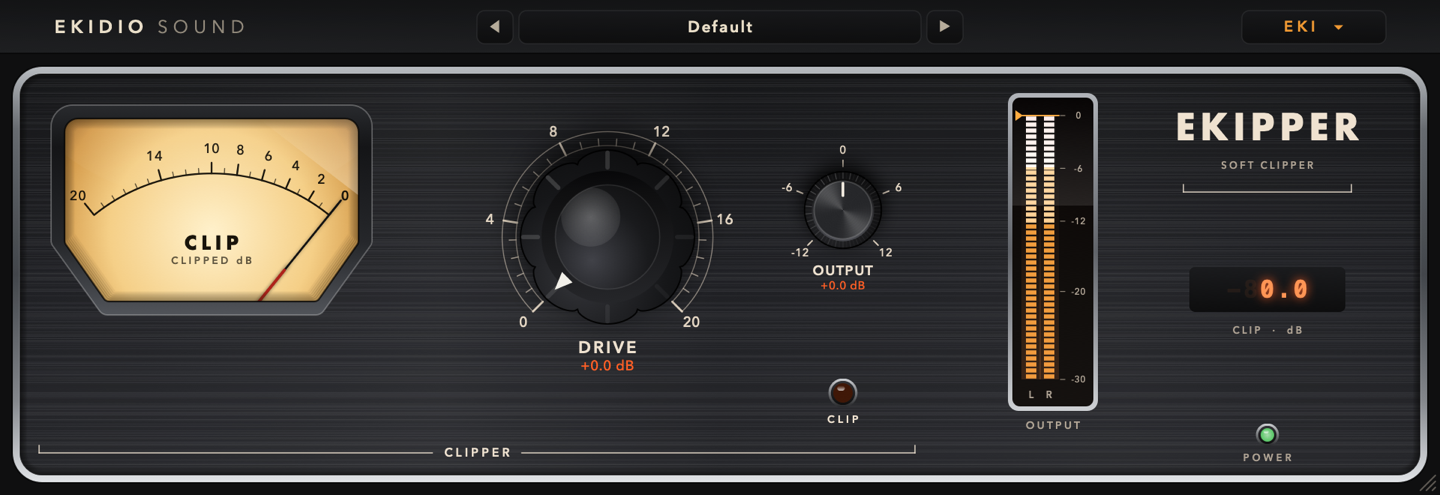
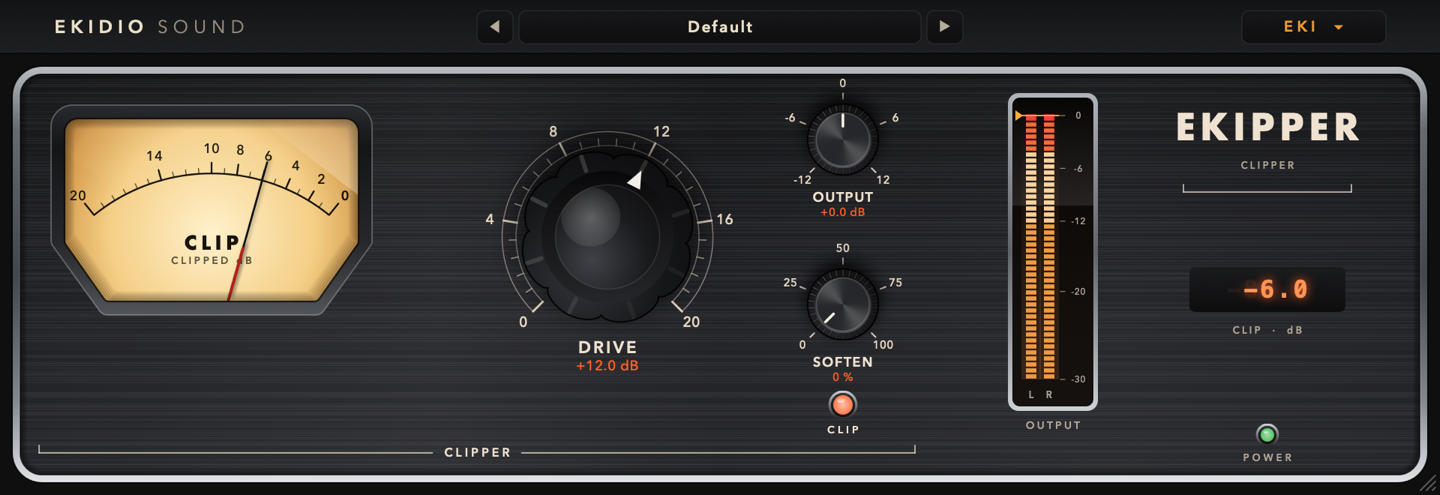
Page: EKIPPER 2.0.0 download (ekipper-v2.0.0) + version.json, new text and panel image

diff --git a/docs/hu/index.html b/docs/hu/index.html
@@ -192,10 +192,10 @@
         <p>A leggyorsabb út a kész, rádiókész masterhez. A PUSH azonnal dúsítja és telíti a hangképet, a WIDTH funkció precízen szélesíti a sztereó teret, míg az integrált kétszintű limiter zenei finomsággal kordában tartja a tranzienseket.</p>
         <p class="use">Mastering, mix busz, gyors hangos referenciák.</p>
         <p><a class="btn primary" href="https://github.com/Ekidio/ekidio_sound_plugins/releases/download/ek1-v1.2.0/EKIDIO-SOUND-EK1-1.2.0.dmg">EK1 letöltése</a></p></div></div>
-      <div class="plugin" id="ekipper"><img src="../assets/ekipper.png" alt="EKIPPER"><div><h3>EKIPPER</h3><div class="kind">Soft clipper</div>
-        <p>A kíméletes csúcsvágás titkos fegyvere. Meleg, kerekített görbéjével úgy metszi le a limiter elől a felesleges tüskéket, hogy a tranziensek megtartják ütőerejüket. Észrevétlen hangerő-tartalékot szabadít fel, miközben kellemes sűrűséget és kohéziót kölcsönöz a ritmusszekciónak.</p>
+      <div class="plugin" id="ekipper"><img src="../assets/ekipper.png" alt="EKIPPER"><div><h3>EKIPPER</h3><div class="kind">Clipper</div>
+        <p>Tiszta, pontos csúcsvágó. A DRIVE a 0 dBFS-es plafonba tolja a jelet: SOFTEN 0-n feszes, kemény vágás, a SOFTEN felfelé tekerésével a térd egészen a sima, telített görbéig kerekedik. A limiter előtt hangerő-tartalékot szabadít fel, a CLIP GUARD pedig gondoskodik róla, hogy a kimenet soha ne lépje át a 0 dBFS-t.</p>
         <p class="use">Dob, mix busz, a limiter elé.</p>
-        <p><a class="btn primary" href="https://github.com/Ekidio/ekidio_sound_plugins/releases/download/ekipper-v1.0.0/EKIDIO-SOUND-EKIPPER-1.0.0.dmg">EKIPPER letöltése</a></p></div></div>
+        <p><a class="btn primary" href="https://github.com/Ekidio/ekidio_sound_plugins/releases/download/ekipper-v2.0.0/EKIDIO-SOUND-EKIPPER-2.0.0.dmg">EKIPPER letöltése</a></p></div></div>
       <div class="plugin" id="limeki"><img src="../assets/limeki.png" alt="LIMEKI"><div><h3>LIMEKI</h3><div class="kind">Density és clean limiter</div>
         <p>Két világ tökéletes szövetsége. A DENSITY fokozat analóg sűrűséget és zenei testet ad a produkciónak, a CLEAN pedig a digitális korszak legtisztább védőbástyájaként óvja a csúcsokat.</p>
         <p class="use">Mix busz, mastering, dobbusz, streaming masterek.</p>

diff --git a/docs/index.html b/docs/index.html
@@ -192,10 +192,10 @@
         <p>The fastest way to a finished, radio-ready master. PUSH instantly thickens and saturates the picture, WIDTH precisely widens the stereo field, and the built-in two-stage limiter keeps the transients in check with musical finesse.</p>
         <p class="use">Mastering, mix bus, quick loud references.</p>
         <p><a class="btn primary" href="https://github.com/Ekidio/ekidio_sound_plugins/releases/download/ek1-v1.2.0/EKIDIO-SOUND-EK1-1.2.0.dmg">Download EK1</a></p></div></div>
-      <div class="plugin" id="ekipper"><img src="assets/ekipper.png" alt="EKIPPER"><div><h3>EKIPPER</h3><div class="kind">Soft clipper</div>
-        <p>The secret weapon of gentle peak clipping. Its warm, rounded curve trims the unnecessary spikes before the limiter while the transients keep their punch. It frees up headroom unnoticed and lends the rhythm section a pleasant density and cohesion.</p>
+      <div class="plugin" id="ekipper"><img src="assets/ekipper.png" alt="EKIPPER"><div><h3>EKIPPER</h3><div class="kind">Clipper</div>
+        <p>A clean, precise peak clipper. DRIVE pushes the signal into a 0 dBFS ceiling: at SOFTEN 0 it is a tight hard clip, turning SOFTEN up rounds the knee all the way to a smooth, saturated curve. It frees up headroom before the limiter, and CLIP GUARD keeps the output from ever going over 0 dBFS.</p>
         <p class="use">Drums, mix bus, before the limiter.</p>
-        <p><a class="btn primary" href="https://github.com/Ekidio/ekidio_sound_plugins/releases/download/ekipper-v1.0.0/EKIDIO-SOUND-EKIPPER-1.0.0.dmg">Download EKIPPER</a></p></div></div>
+        <p><a class="btn primary" href="https://github.com/Ekidio/ekidio_sound_plugins/releases/download/ekipper-v2.0.0/EKIDIO-SOUND-EKIPPER-2.0.0.dmg">Download EKIPPER</a></p></div></div>
       <div class="plugin" id="limeki"><img src="assets/limeki.png" alt="LIMEKI"><div><h3>LIMEKI</h3><div class="kind">Density &amp; clean limiter</div>
         <p>The perfect alliance of two worlds. The DENSITY stage gives the production analog thickness and musical body, while CLEAN guards the peaks as the cleanest bastion of the digital age.</p>
         <p class="use">Mix bus, mastering, drum bus, streaming masters.</p>

diff --git a/README.md b/README.md
@@ -3,7 +3,7 @@
 Eighteen free, analog-inspired plugins for macOS (Audio Unit / AUv2): eight compressors, a character EQ, a soft tube air enhancer, an analog tape machine, a limiter, three mastering tools, a passive tube equalizer set, a plate reverb and a stereo delay.
 
 **Website:** https://ekidio.github.io/ekidio_sound_plugins/ · [Magyar](https://ekidio.github.io/ekidio_sound_plugins/hu/)
-**Download:** [Compressor Collection, 8 compressors (v1.3.0)](https://github.com/Ekidio/ekidio_sound_plugins/releases/tag/v1.3.0) · [DYNEKI-6](https://github.com/Ekidio/ekidio_sound_plugins/releases/tag/dyneki-v1.1.0) · [SATEKI](https://github.com/Ekidio/ekidio_sound_plugins/releases/tag/sateki-v1.0.0) · [TAPEKI](https://github.com/Ekidio/ekidio_sound_plugins/releases/tag/tapeki-v1.0.1) · [MASTEQUI](https://github.com/Ekidio/ekidio_sound_plugins/releases/tag/mastequi-v1.0.0) · [PULTEKI](https://github.com/Ekidio/ekidio_sound_plugins/releases/tag/pulteki-v1.0.0) · [EK1](https://github.com/Ekidio/ekidio_sound_plugins/releases/tag/ek1-v1.1.0) · [EKIPPER](https://github.com/Ekidio/ekidio_sound_plugins/releases/tag/ekipper-v1.0.0) · [LIMEKI](https://github.com/Ekidio/ekidio_sound_plugins/releases/tag/limeki-v1.1.0) · [REVEKI](https://github.com/Ekidio/ekidio_sound_plugins/releases/tag/reveki-v1.0.1) · [DELEKI](https://github.com/Ekidio/ekidio_sound_plugins/releases/tag/deleki-v1.0.0)
+**Download:** [Compressor Collection, 8 compressors (v1.3.0)](https://github.com/Ekidio/ekidio_sound_plugins/releases/tag/v1.3.0) · [DYNEKI-6](https://github.com/Ekidio/ekidio_sound_plugins/releases/tag/dyneki-v1.1.0) · [SATEKI](https://github.com/Ekidio/ekidio_sound_plugins/releases/tag/sateki-v1.0.0) · [TAPEKI](https://github.com/Ekidio/ekidio_sound_plugins/releases/tag/tapeki-v1.0.1) · [MASTEQUI](https://github.com/Ekidio/ekidio_sound_plugins/releases/tag/mastequi-v1.0.0) · [PULTEKI](https://github.com/Ekidio/ekidio_sound_plugins/releases/tag/pulteki-v1.0.0) · [EK1](https://github.com/Ekidio/ekidio_sound_plugins/releases/tag/ek1-v1.1.0) · [EKIPPER](https://github.com/Ekidio/ekidio_sound_plugins/releases/tag/ekipper-v2.0.0) · [LIMEKI](https://github.com/Ekidio/ekidio_sound_plugins/releases/tag/limeki-v1.1.0) · [REVEKI](https://github.com/Ekidio/ekidio_sound_plugins/releases/tag/reveki-v1.0.1) · [DELEKI](https://github.com/Ekidio/ekidio_sound_plugins/releases/tag/deleki-v1.0.0)
 
 | Plugin | Character |
 |---|---|
@@ -22,7 +22,7 @@ Eighteen free, analog-inspired plugins for macOS (Audio Unit / AUv2): eight comp
 | **EK1** | one-knob-per-job mastering chain (AIR / FOCUS / BASS PUNCH, PUSH density, two-stage VOLUME limiter, TRANSIENT, WIDTH, AUTO −14 LUFS) — separate installer |
 | **MASTEQUI** | three-band mastering EQ with low and air shelves, 2× linear-phase oversampling — separate installer |
 | **PULTEKI** | passive tube equalizer set: program EQ, mid-range EQ and filter in one rack, extra clean — separate installer |
-| **EKIPPER** | soft clipper (DRIVE, OUTPUT, 2× / 4× / 8× oversampling) — separate installer |
+| **EKIPPER** | clipper (DRIVE, SOFTEN, OUTPUT, CLIP GUARD, 2× / 4× / 8× oversampling) — separate installer |
 | **REVEKI** | classic plate reverb (PRE-DELAY with tempo sync, DECAY up to 60 s, DAMP, FREEZE, live decay window) — separate installer |
 | **DELEKI** | clean stereo delay (TIME with tempo sync, PING-PONG / STEREO, OFFSET, FEEDBACK with LOW / HIGH CUT in the loop, DUCK, FREEZE) — separate installer |
 
